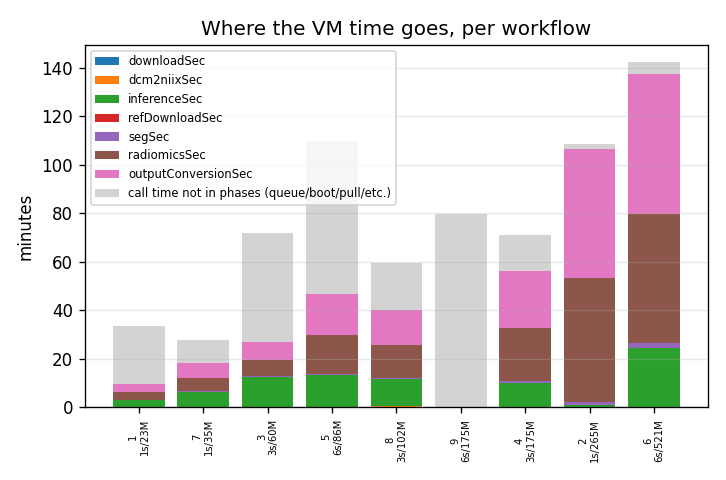
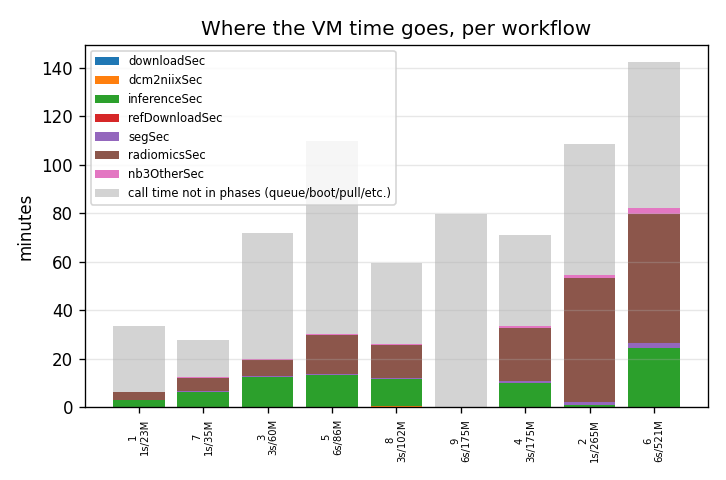
cost_model: don't stack outputConversionSec on top of its own components; batch20 results
outputConversionSec is nb3's per-series TOTAL (refDownload + SEG + radiomics + SR/glue),
so the phase_breakdown_per_workflow chart double-counted nb3 and understated the gray
not-in-phases band. Stack the derived nb3OtherSec residual instead. Regenerated
figs_*_pilot2 and added figs_*_batch20.

Also: batch20 run results (submission_{2aa62ff5,3951836b}_*.csv) and evaluations vs the
committed predictions: MOOSE $1.58 est vs $1.91 pred (+21%: near-zero preemptions vs the
98%-churn pilot fit), TotalSeg $0.94 vs $0.68 (-27%: 24% preempt overhead + v2.18
ensemble ~+30%/series); nb3 within 1-11% both models; $/series -40% vs pilot2 batches.

Claude-Session: https://claude.ai/code/session_01JHAXQcjkFQ7zAkFXyeGjpy

diff --git a/util/executionAnalytics/cost_model.py b/util/executionAnalytics/cost_model.py
@@ -745,13 +745,24 @@ def plot_report(wf, se, bill, tasks, model, outdir):
             fig.suptitle("Per-series phase timings vs series size"); fig.tight_layout()
             p = outdir / "series_phase_timings.png"; fig.savefig(p, dpi=120); plt.close(fig); made.append(p)
 
-            # phase breakdown per workflow (stacked) + unexplained overhead
-            agg = se.groupby("workflowId")[cols].sum(min_count=1) / 60.0
+            # phase breakdown per workflow (stacked) + unexplained overhead.
+            # outputConversionSec is nb3's per-series TOTAL (it already contains
+            # refDownload/seg/radiomics); stacking it would double-count nb3, so
+            # stack its residual (SR write + NIfTI load/relabel glue) instead.
+            se2 = se.copy()
+            nb3_parts = [c for c in ("refDownloadSec", "segSec", "radiomicsSec") if c in cols]
+            stack_cols = list(cols)
+            if "outputConversionSec" in stack_cols and nb3_parts:
+                se2["nb3OtherSec"] = (pd.to_numeric(se2["outputConversionSec"], errors="coerce")
+                                      - se2[nb3_parts].apply(pd.to_numeric, errors="coerce").sum(axis=1)
+                                      ).clip(lower=0)
+                stack_cols[stack_cols.index("outputConversionSec")] = "nb3OtherSec"
+            agg = se2.groupby("workflowId")[stack_cols].sum(min_count=1) / 60.0
             wfo = wf.sort_values("Mvox")
             agg = agg.reindex(wfo["workflowId"]).fillna(0)
             fig, ax = plt.subplots(figsize=(max(6, 0.45 * len(agg) + 2), 4))
             bottom = np.zeros(len(agg))
-            for c in cols:
+            for c in stack_cols:
                 ax.bar(range(len(agg)), agg[c].to_numpy(), bottom=bottom, label=c)
                 bottom += agg[c].to_numpy()
             vm_cols = [f"{t}_vmMin" for t in tasks if f"{t}_vmMin" in wfo.columns]

diff --git a/util/executionAnalytics/figs_moose_batch20/report.md b/util/executionAnalytics/figs_moose_batch20/report.md
@@ -1,0 +1,30 @@
+# Cost report: submission_2aa62ff5_workflows.csv
+workflows 3, series 60, Mvox 2633, slices 9167, region ['us-west4'], cost source ['estimate']
+total $1.581  = $0.0264/series, $0.00060/Mvox, $0.000173/slice, 11.7 VM-hours
+
+| task | VM-min total | VM-min/series | VM-min/Mvox | attempts | preempted | $ | $ share | eff $/h | catalog $/h |
+|---|---|---|---|---|---|---|---|---|---|
+| inference | 302 | 5.03 | 0.115 | 4 | 1 | 1.278 | 81% | 0.2539 | 0.2539 |
+| outputConversion | 290 | 4.83 | 0.110 | 3 | 0 | 0.303 | 19% | 0.0628 | 0.0628 |
+
+Per-series phase timings (median s / s per Mvox slope):
+  downloadSec            median     6.0s  mean     6.1s  slope    0.01 s/Mvox  n=60
+  dcm2niixSec            median     1.7s  mean     2.5s  slope    0.06 s/Mvox  n=60
+  inferenceSec           median   234.9s  mean   248.9s  slope    1.19 s/Mvox  n=60
+  refDownloadSec         median     1.6s  mean     1.7s  slope    0.01 s/Mvox  n=60
+  segSec                 median     6.5s  mean     9.1s  slope    0.19 s/Mvox  n=60
+  radiomicsSec           median   184.8s  mean   253.8s  slope    4.24 s/Mvox  n=60
+  outputConversionSec    median   204.6s  mean   281.4s  slope    4.86 s/Mvox  n=60
+  inference time by sub-model (total s):
+    clin_ct_digestive                           3418.0
+    clin_ct_body_composition                    1715.0
+    clin_ct_peripheral_bones                    1506.4
+    clin_ct_vertebrae                           1433.1
+    clin_ct_ribs                                1406.0
+    clin_ct_cardiac                             1284.7
+    clin_ct_organs                              1281.1
+    clin_ct_muscles                             1116.9
+    clin_ct_lungs                               1047.9
+    clin_ct_body                                 727.6
+
+Figures: cost_vs_workload.png, task_runtime_vs_workload.png, unit_cost_vs_batch_size.png, cost_by_task_per_workflow.png, series_phase_timings.png, phase_breakdown_per_workflow.png, download_vs_size.png, model_fit.png

diff --git a/util/executionAnalytics/figs_totalseg_batch20/report.md b/util/executionAnalytics/figs_totalseg_batch20/report.md
@@ -1,0 +1,21 @@
+# Cost report: submission_3951836b_workflows.csv
+workflows 3, series 60, Mvox 2633, slices 9167, region ['us-west4'], cost source ['estimate']
+total $0.942  = $0.0157/series, $0.00036/Mvox, $0.000103/slice, 7.2 VM-hours
+
+| task | VM-min total | VM-min/series | VM-min/Mvox | attempts | preempted | $ | $ share | eff $/h | catalog $/h |
+|---|---|---|---|---|---|---|---|---|---|
+| inference | 185 | 3.09 | 0.070 | 7 | 4 | 0.785 | 83% | 0.2539 | 0.2539 |
+| outputConversion | 150 | 2.50 | 0.057 | 3 | 0 | 0.157 | 17% | 0.0628 | 0.0628 |
+
+Per-series phase timings (median s / s per Mvox slope):
+  downloadSec            median     6.0s  mean     6.1s  slope    0.01 s/Mvox  n=60
+  dcm2niixSec            median     1.6s  mean     2.5s  slope    0.06 s/Mvox  n=60
+  inferenceSec           median   116.9s  mean   122.8s  slope    0.32 s/Mvox  n=60
+  refDownloadSec         median     1.6s  mean     1.6s  slope    0.01 s/Mvox  n=60
+  segSec                 median     0.9s  mean     1.2s  slope    0.03 s/Mvox  n=60
+  radiomicsSec           median    94.0s  mean   137.6s  slope    2.93 s/Mvox  n=60
+  outputConversionSec    median    99.1s  mean   142.3s  slope    3.00 s/Mvox  n=60
+  inference time by sub-model (total s):
+    total                                       7370.8
+
+Figures: cost_vs_workload.png, task_runtime_vs_workload.png, unit_cost_vs_batch_size.png, cost_by_task_per_workflow.png, series_phase_timings.png, phase_breakdown_per_workflow.png, download_vs_size.png, model_fit.png
